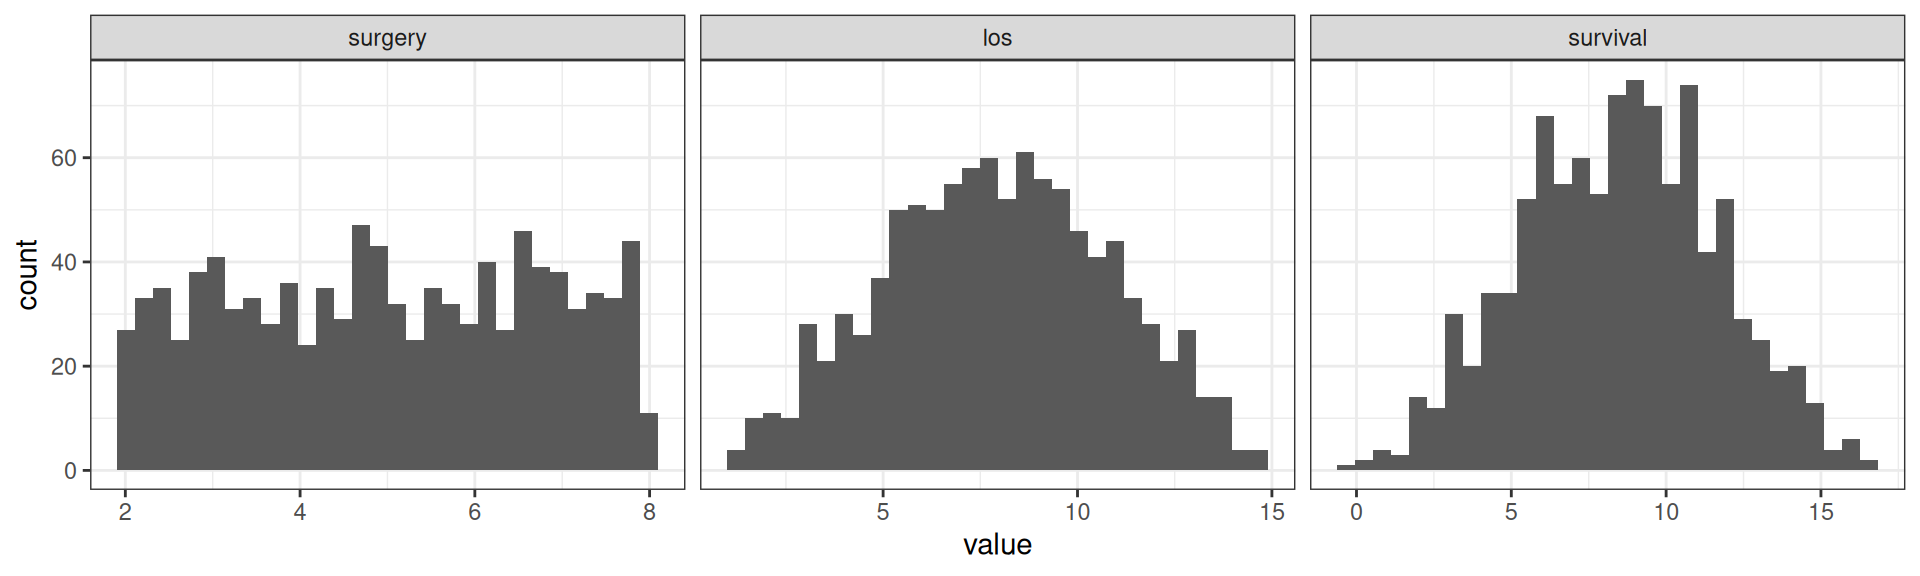
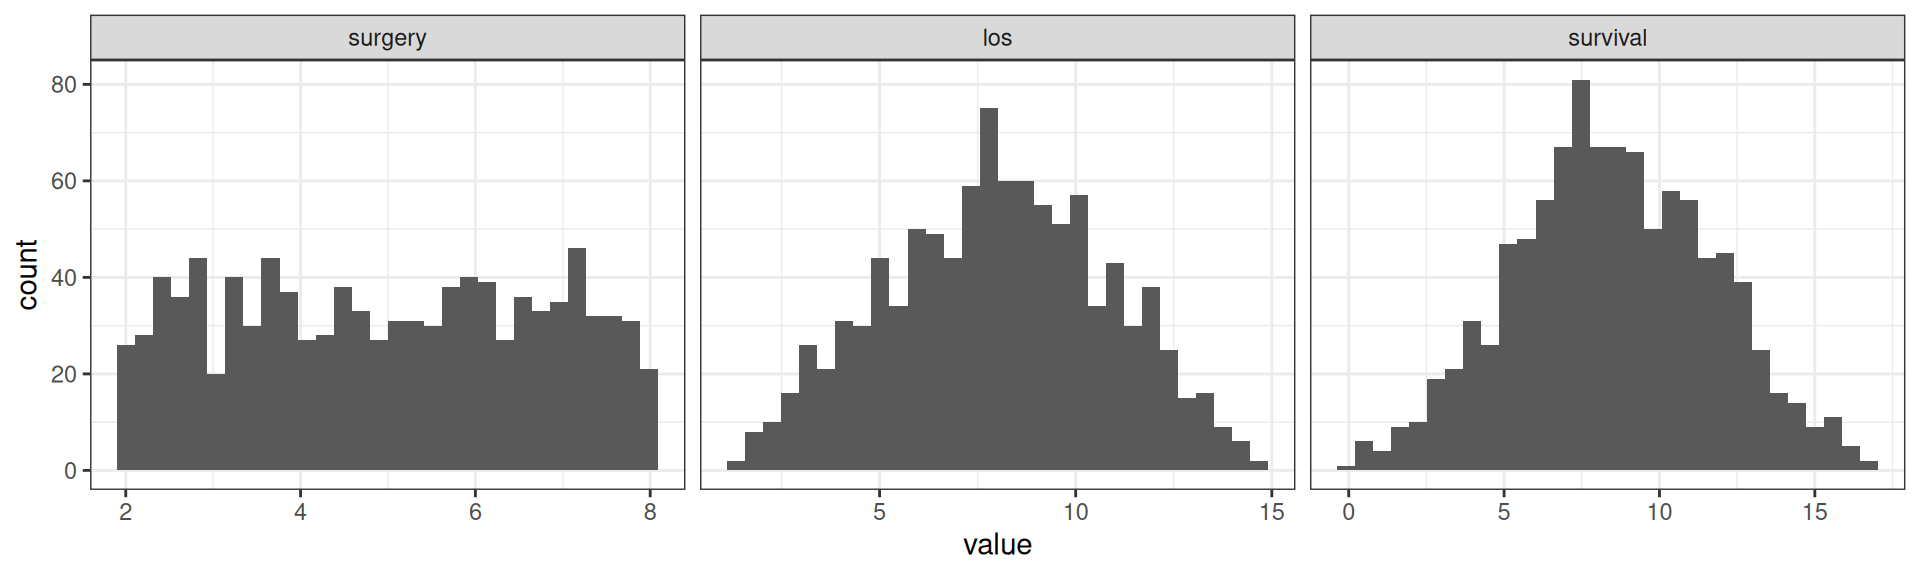
Built site for gh-pages

diff --git a/index.html b/index.html
@@ -368,42 +368,48 @@ ul.task-list li input[type="checkbox"] {
 </thead>
 <tbody>
 <tr class="odd">
+<td></td>
+<td>Test-your-knowledge</td>
+<td>Day 3 material</td>
+<td><a href="https://forms.gle/126kjKPwCPfeFy5q6">google form</a></td>
+</tr>
+<tr class="even">
 <td>09:00 - 09:45</td>
 <td>Lecture</td>
 <td>Causal Perspectives on Prediction Modeling I</td>
 <td><a href="lectures/day41-prediction/index.html">html</a> <a href="lectures/day41-prediction/prediction.pdf">pdf</a></td>
 </tr>
-<tr class="even">
+<tr class="odd">
 <td>10:00 - 10:45</td>
 <td>Lecture</td>
 <td>Causal Perspectives on Prediction Modeling II</td>
 <td></td>
 </tr>
-<tr class="odd">
+<tr class="even">
 <td>11:00 - 12:30</td>
 <td>practical</td>
 <td>Causal Perspectives on Prediction Modeling</td>
 <td><a href="practicals/41_prediction/index.html">html</a></td>
 </tr>
-<tr class="even">
+<tr class="odd">
 <td>12:30 - 13:15</td>
 <td>LUNCH</td>
 <td></td>
 <td></td>
 </tr>
-<tr class="odd">
+<tr class="even">
 <td>13:15 - 14:15</td>
 <td>Lecture</td>
 <td>Causal Structure Learning I</td>
 <td><a href="lectures/day4-datascience/day4_cd.pdf">pdf</a></td>
 </tr>
-<tr class="even">
+<tr class="odd">
 <td>14:30 - 15:00</td>
 <td>Lecture</td>
 <td>Causal Structure Learning II</td>
 <td></td>
 </tr>
-<tr class="odd">
+<tr class="even">
 <td>15:15 - 16:30</td>
 <td>practical</td>
 <td>Causal Structure Learning</td>

diff --git a/lectures/day2-scms/lec3-scms.html b/lectures/day2-scms/lec3-scms.html
@@ -512,7 +512,7 @@ Qs:
 <div class="cell fragment" data-execute="false">
 <div class="cell-output cell-output-stdout">
 <pre><code> u_surgery      u_los u_survival 
-  2.829749   1.459678  11.977451 </code></pre>
+  3.352628   4.104813   9.074250 </code></pre>
 </div>
 </div>
 </div>
@@ -537,7 +537,7 @@ Figure&nbsp;1: 1000 random samples of U
 <div class="cell fragment" data-execute="true">
 <div class="cell-output cell-output-stdout">
 <pre><code> u_surgery      u_los u_survival    surgery        los   survival 
-  6.193353   0.956764   8.392286   6.193353   7.150117   3.155697 </code></pre>
+  3.059975   1.210176  10.471437   3.059975   4.270151   8.621638 </code></pre>
 </div>
 </div>
 <div class="fragment">
@@ -586,9 +586,9 @@ Figure&nbsp;2: Realisations of endogenous variables V over random samples of U i
 <div class="cell-output cell-output-stdout">
 <pre><code>       model mean_survival
       &lt;char&gt;         &lt;num&gt;
-1:      scm1      8.480240
-2: submodel3      3.525427
-3: submodel7      7.525427</code></pre>
+1:      scm1      8.506886
+2: submodel3      3.496724
+3: submodel7      7.496724</code></pre>
 </div>
 </div>
 </section></section>
